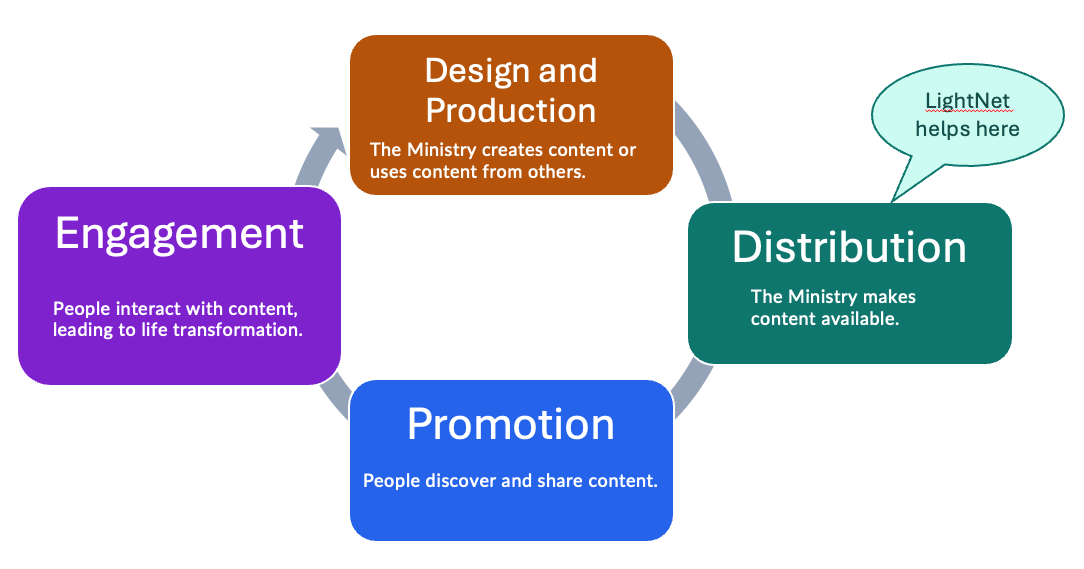
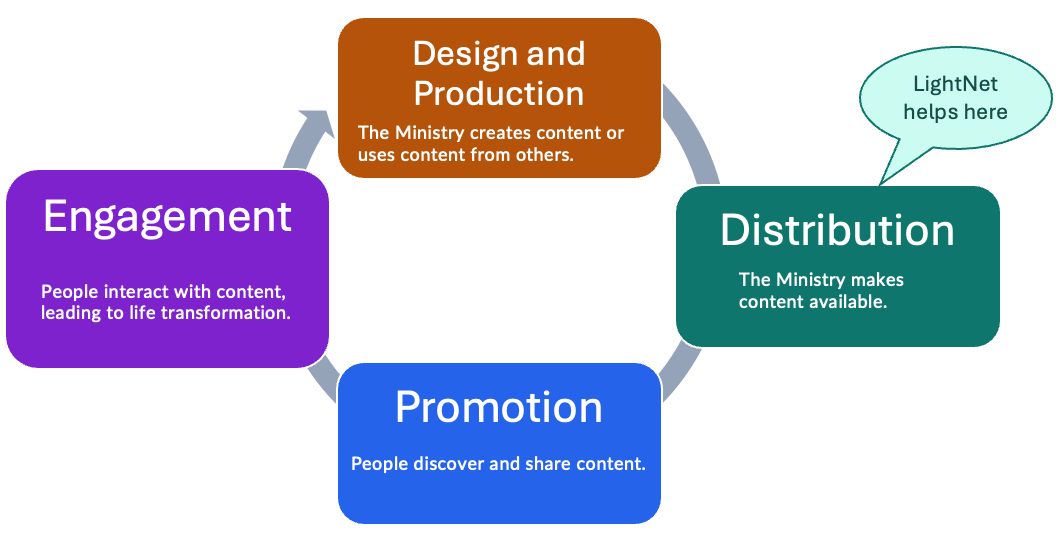
Fix content lifecycle diagram. Rework Why LightNet page

Changed region(s): [[0.0, 0.0297, 0.9981, 0.9814], [0.6862, 0.5056, 0.8733, 0.5948]]

diff --git a/AGENTS.md b/AGENTS.md
@@ -1,0 +1,36 @@
+# Repository instructions
+
+## Project
+
+- This is an Starlight/Astro documentation site.
+- Use `pnpm` for package management.
+- Documentation pages live in `src/content/docs/`.
+- All documentation pages use `.mdx`; non-MDX files in the docs tree are assets such as images.
+- LightNet's three main lifecycle stages are Plan, Build, and Run. Organize documentation around these stages.
+
+## Documentation audiences and roles
+
+- The site has two documentation sections for different audiences and roles: Developer Documentation for Site Administrators, and Ministry Documentation for Ministries and Content Administrators.
+- Ministry Documentation is written for a primarily non-technical Ministry reader who makes project decisions and approves purchases and subscriptions.
+- A Content Administrator manages and uploads Content through the Administration UI. This reader may be somewhat technically comfortable, but is not expected to be a software developer.
+- A Site Administrator is the software developer who configures and deploys a LightNet Site. The [setup checklist](https://docs.lightnet.community/start-here/setup-checklist/#how-to-use-the-checklist) describes this role and the skills and responsibilities involved.
+
+## Editing content
+
+- Preserve the existing frontmatter format.
+- Use sentence case for headings.
+- Use the project's existing terminology and capitalization.
+- For the most important terms in Ministry Documentation, refer to the [Glossary](/ministry-docs/resources/glossary), including `Ministry`, `Content`, `LightNet Site`, and `Administration UI`.
+- Use site-relative links such as `/ministry-docs/...`.
+- Keep claims about prices, performance, hosting, and security consistent with the existing documentation.
+
+## Verification
+
+- Never run `pnpm build`.
+- Ask the user to run `pnpm build` manually instead.
+- Run only targeted checks that do not invoke `pnpm build`.
+
+## Git
+
+- Do not reset, discard, or overwrite unrelated user changes.
+- Ask the user to create a branch when one is required; do not create branches yourself.
